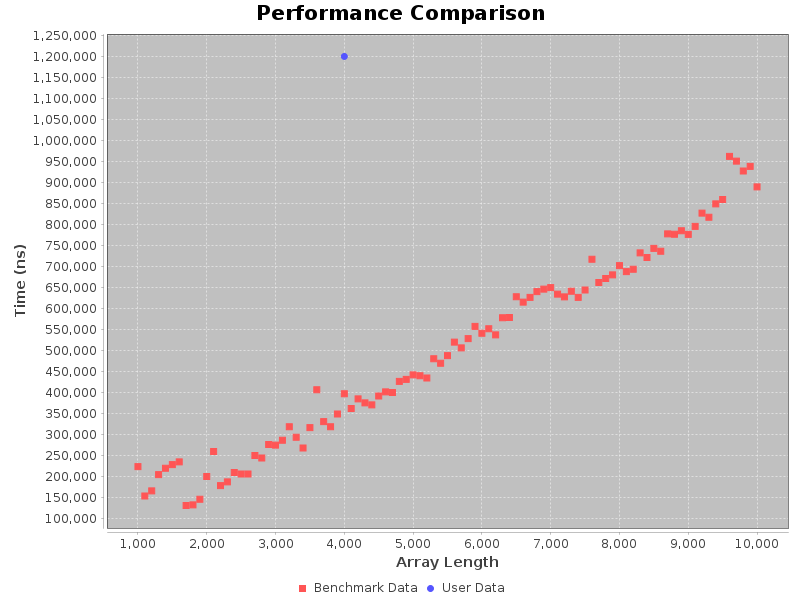
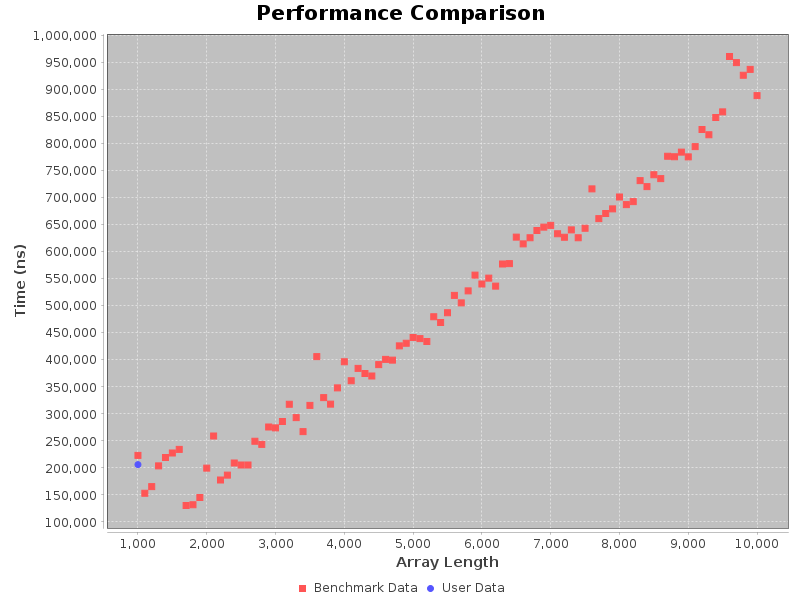
FIXED THE USER SLOWNESS, ALLOW JVM WARM UP TO OCCUR

diff --git a/src/main/java/com/nighthawk/spring_portfolio/sorters/SortingApplication.java b/src/main/java/com/nighthawk/spring_portfolio/sorters/SortingApplication.java
@@ -5,7 +5,10 @@ public class SortingApplication {
     public static void main(String[] args) {
         // Predefined sorter type and array size
         String sorterType = "merge"; // Replace with "Binary", "Bubble", or "Merge"
-        int arraySize = 4000; // Replace with desired array size
+        int arraySize = 1000; // Replace with desired array size
+        
+        //WARM UP TIME
+        warmUpJVM(sorterType, arraySize);
 
         // Generate xData using MockDataGenerator
         double[][] xData = MockDataGenerator.generateXData(arraySize);
@@ -30,6 +33,16 @@ public class SortingApplication {
 
         // Visualize data
         DataVisualizationUtil.displayChartWithUserPoint(benchmarkData, arraySize, timeTaken, sorterType + " Sorter Performance");
+    }
+
+    private static void warmUpJVM(String sorterType, int length) {
+        // Simple warm-up with small arrays
+        for (int i = 0; i < 20; i++) {
+            double[][] warmupXData = MockDataGenerator.generateXData(length); // Small data set
+            double[] warmupYData = MockDataGenerator.generateYData(warmupXData);
+            Sorter sorter = getSorter(sorterType);
+            sorter.sort(warmupYData);
+        }
     }
 
     private static Sorter getSorter(String sorterType) {

diff --git a/src/main/java/com/nighthawk/spring_portfolio/sorters/DataVisualizationUtil.java b/src/main/java/com/nighthawk/spring_portfolio/sorters/DataVisualizationUtil.java
@@ -8,7 +8,6 @@ import org.jfree.data.xy.XYSeries;
 import org.jfree.data.xy.XYSeriesCollection;
 
 import javax.imageio.ImageIO;
-import java.awt.image.BufferedImage;
 import java.io.File;
 import java.io.IOException;
 
